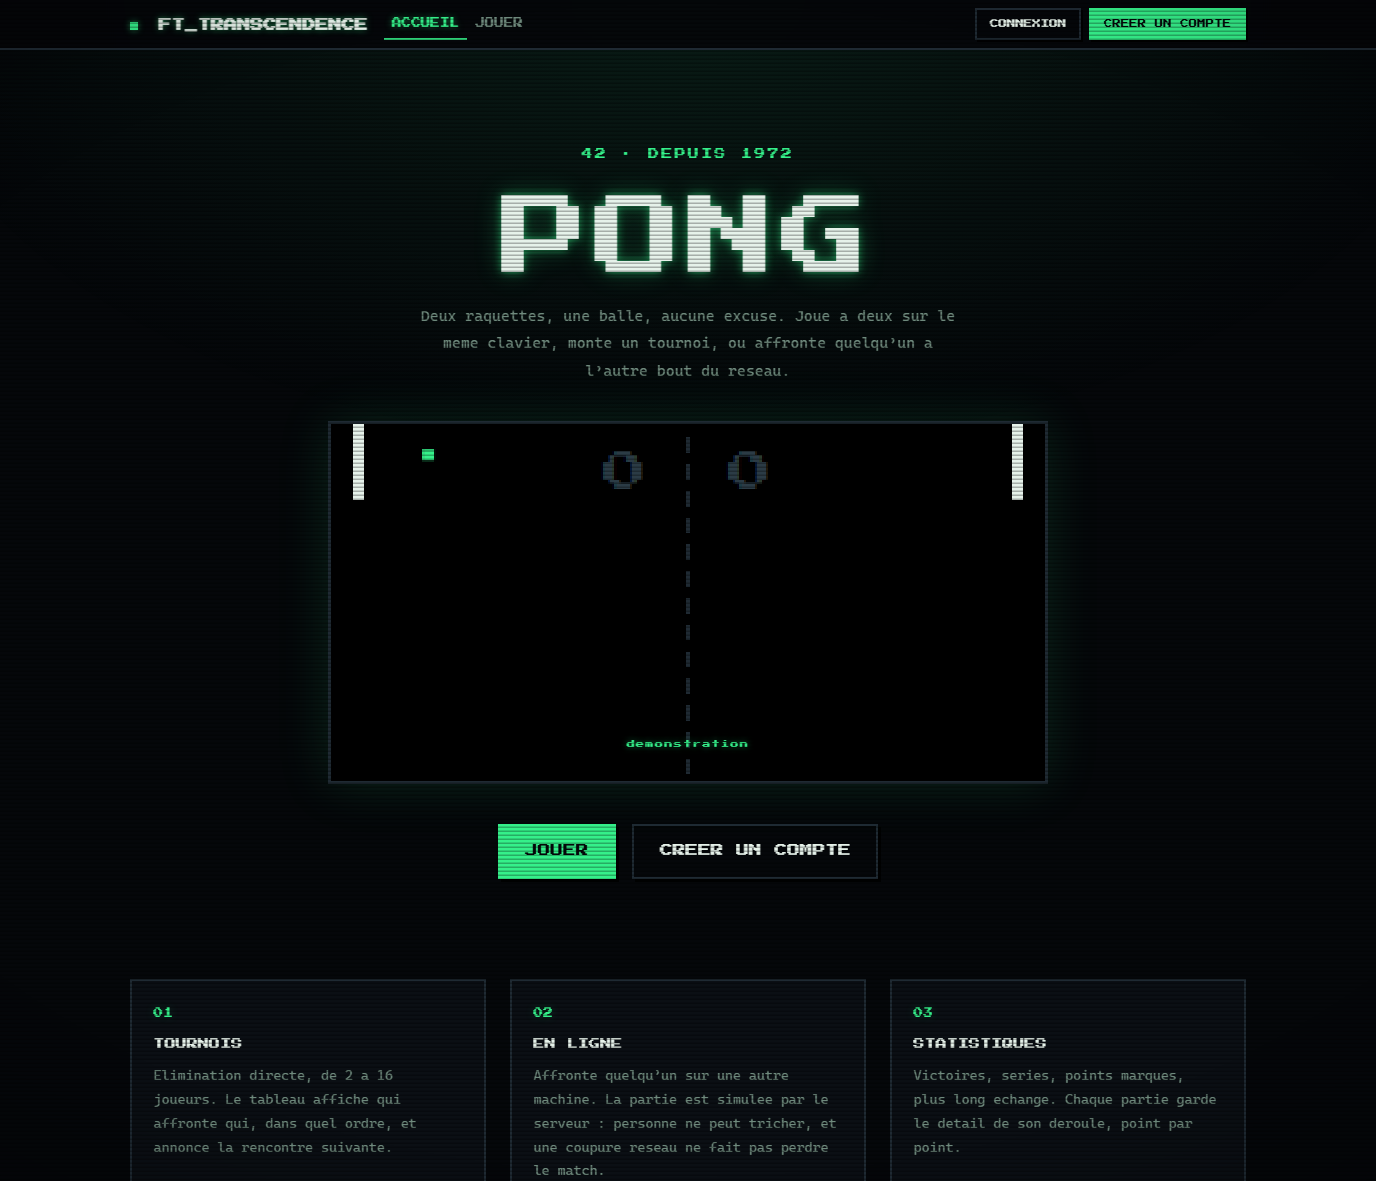
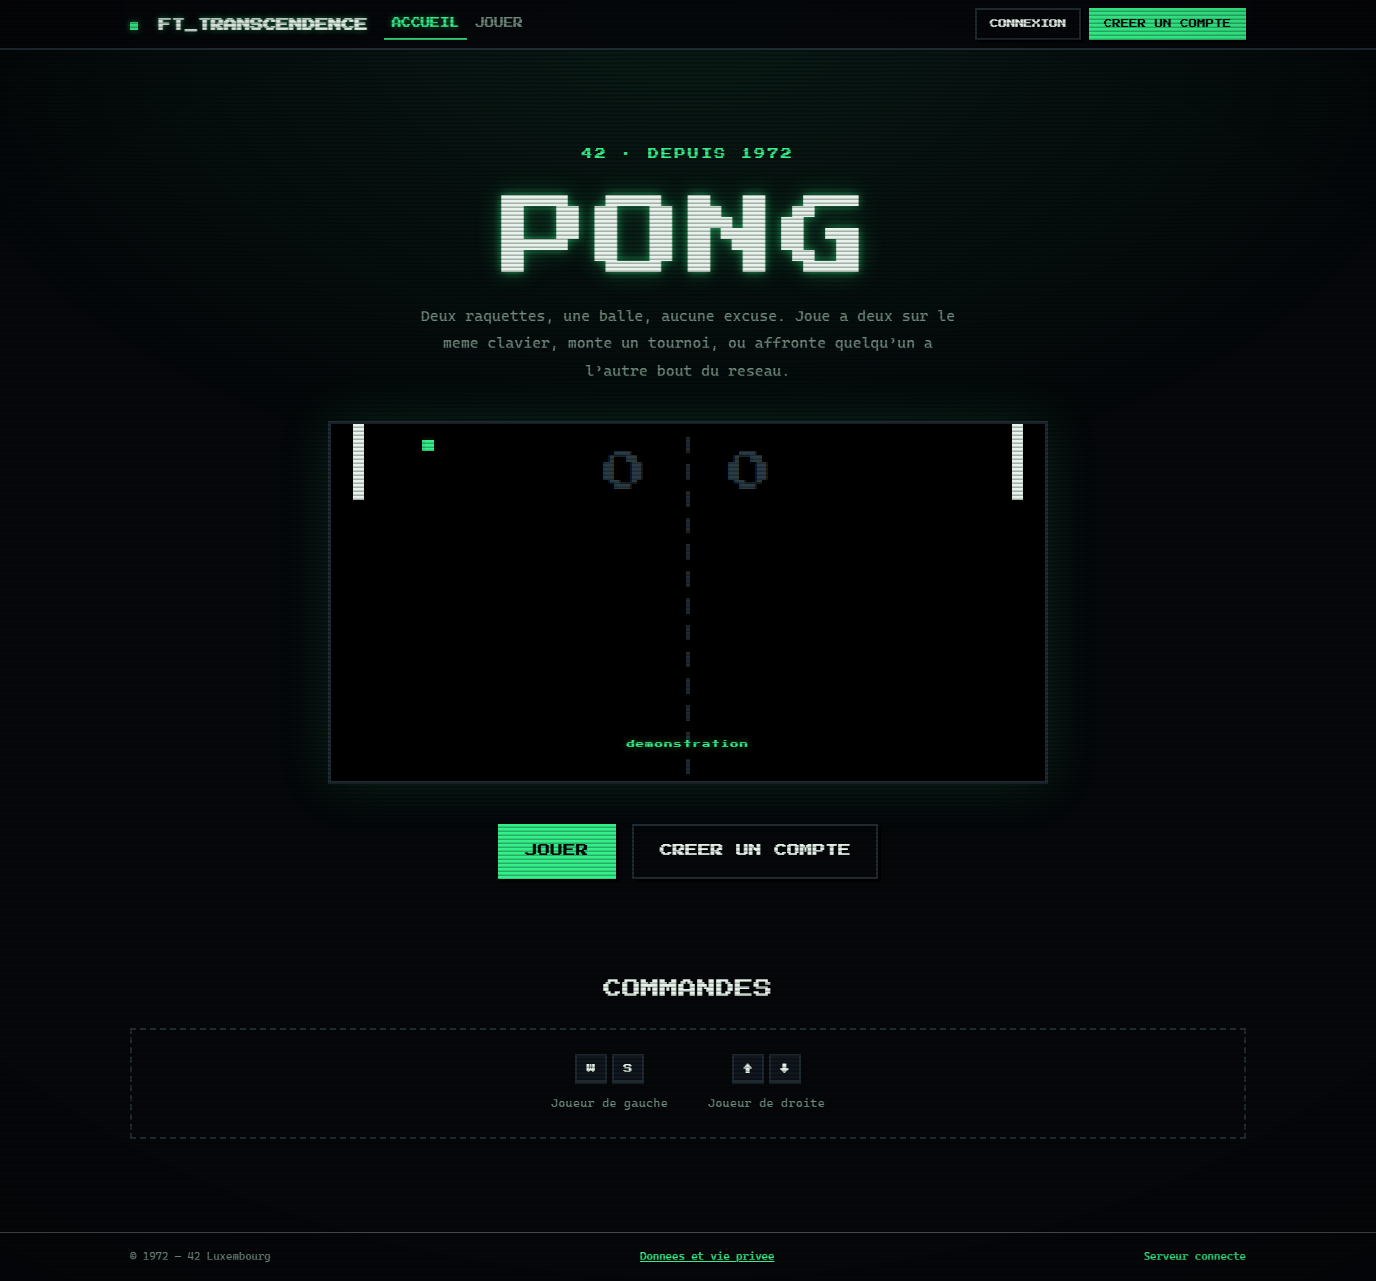
readme complet

diff --git a/frontend/js/views/home.js b/frontend/js/views/home.js
@@ -10,28 +10,6 @@ import { startAttract } from '../attract.js';
 import { el } from '../dom.js';
 import { isAuthenticated } from '../store.js';
 
-const FEATURES = [
-  {
-    index: '01',
-    title: 'Tournois',
-    text: 'Elimination directe, de 2 a 16 joueurs. Le tableau affiche qui '
-      + 'affronte qui, dans quel ordre, et annonce la rencontre suivante.',
-  },
-  {
-    index: '02',
-    title: 'En ligne',
-    text: 'Affronte quelqu’un sur une autre machine. La partie est simulee par '
-      + 'le serveur : personne ne peut tricher, et une coupure reseau ne fait '
-      + 'pas perdre le match.',
-  },
-  {
-    index: '03',
-    title: 'Statistiques',
-    text: 'Victoires, series, points marques, plus long echange. Chaque partie '
-      + 'garde le detail de son deroule, point par point.',
-  },
-];
-
 export default function render() {
   const canvas = el('canvas', {
     'aria-hidden': 'true',      // decoratif : rien a annoncer a un lecteur d'ecran
@@ -62,19 +40,8 @@ export default function render() {
       ),
     ),
 
-    /* --- Ce que le site propose ----------------------------------------- */
-    el('section', { class: 'row g-4 mt-1' },
-      FEATURES.map((feature) => el('div', { class: 'col-12 col-md-4' },
-        el('article', { class: 'feature' },
-          el('span', { class: 'feature-index' }, feature.index),
-          el('h2', {}, feature.title),
-          el('p', {}, feature.text),
-        ),
-      )),
-    ),
-
     /* --- Commandes ------------------------------------------------------- */
-    el('section', { class: 'mt-5' },
+    el('section', { class: 'mt-4' },
       el('h2', { class: 'text-center mb-4' }, 'Commandes'),
       el('div', { class: 'controls-strip' },
         el('div', { class: 'text-center' },

diff --git a/frontend/css/app.css b/frontend/css/app.css
@@ -517,38 +517,6 @@ footer {
   pointer-events: none;
 }
 
-/* Bloc de presentation d'une fonctionnalite. */
-.feature {
-  height: 100%;
-  padding: 1.6rem 1.35rem;
-  background: var(--ftt-panel);
-  border: 2px solid var(--ftt-line);
-}
-
-.feature:hover { border-color: rgba(53, 240, 138, 0.45); }
-
-.feature-index {
-  font-family: var(--ftt-font-display);
-  font-size: 0.6rem;
-  color: var(--ftt-green);
-  text-shadow: var(--ftt-glow-soft);
-  display: block;
-  margin-bottom: 0.9rem;
-}
-
-.feature h2 {
-  font-size: 0.68rem;
-  color: var(--ftt-white);
-  margin-bottom: 0.75rem;
-}
-
-.feature p {
-  color: var(--ftt-dim);
-  font-size: 0.85rem;
-  line-height: 1.75;
-  margin: 0;
-}
-
 /* Bandeau de commandes clavier, facon notice de borne. */
 .controls-strip {
   display: flex;
